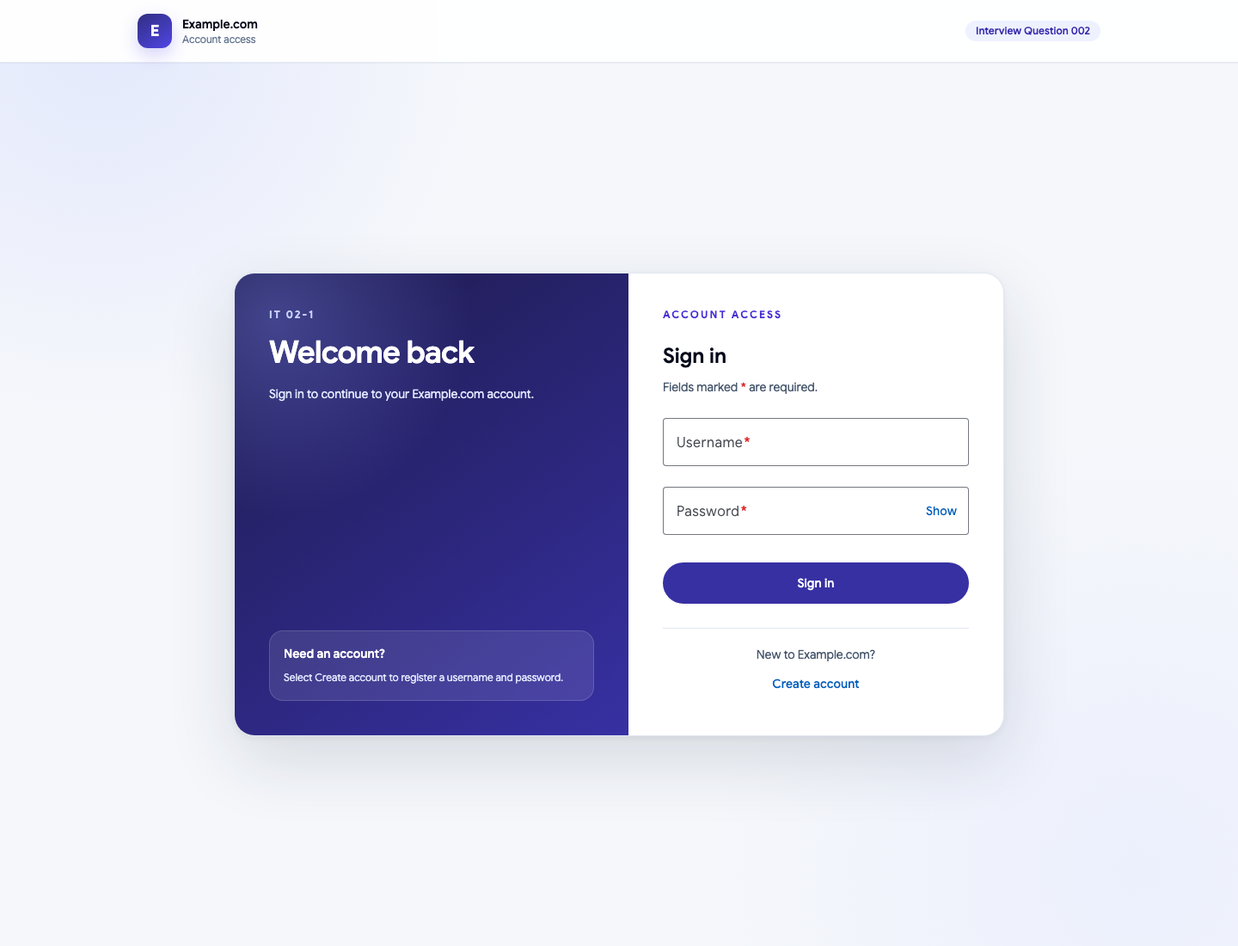
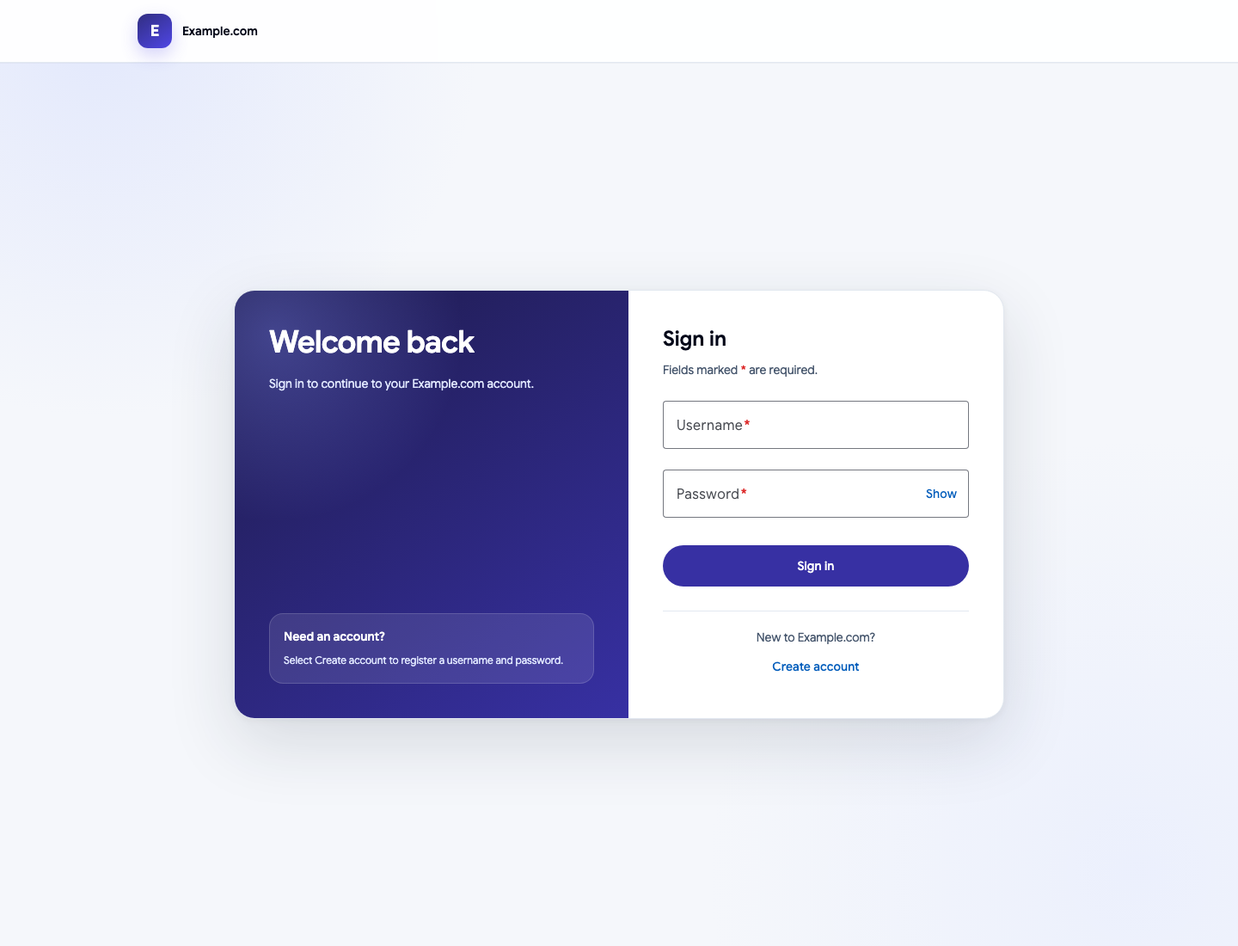
fix: remove assessment text from production UI

diff --git a/src/client/src/app/register.component.ts b/src/client/src/app/register.component.ts
@@ -37,8 +37,7 @@ function passwordsMatch(control: AbstractControl): ValidationErrors | null {
   >
     <aside class="auth-aside hidden p-10 text-white md:flex md:flex-col md:justify-between">
       <div>
-        <p class="m-0 text-xs font-bold uppercase tracking-[.18em] text-indigo-200">IT 02-2</p>
-        <h1 class="mt-4 text-4xl font-semibold tracking-tight">Create your account</h1>
+        <h1 class="m-0 text-4xl font-semibold tracking-tight">Create your account</h1>
         <p class="mt-4 text-sm leading-6 text-indigo-100">
           Create a username and password for your Example.com account.
         </p>
@@ -50,9 +49,8 @@ function passwordsMatch(control: AbstractControl): ValidationErrors | null {
       </ul>
     </aside>
     <section class="p-6 sm:p-10">
-      <p class="m-0 text-xs font-bold uppercase tracking-[.18em] text-indigo-700">New account</p>
-      <h1 class="mt-2 text-3xl font-semibold text-slate-950 md:hidden">Create your account</h1>
-      <h2 class="mt-2 text-2xl font-semibold text-slate-950 md:mt-6">Registration</h2>
+      <h1 class="m-0 text-3xl font-semibold text-slate-950 md:hidden">Create your account</h1>
+      <h2 class="mt-2 text-2xl font-semibold text-slate-950 md:mt-0">Create account</h2>
       <p class="mt-2 text-sm leading-6 text-slate-600">
         Fields marked <span class="required-marker">*</span> are required.
       </p>

diff --git a/src/client/src/app/login.component.ts b/src/client/src/app/login.component.ts
@@ -35,8 +35,7 @@ export const sharedStyles = `
   >
     <aside class="auth-aside hidden p-10 text-white md:flex md:flex-col md:justify-between">
       <div>
-        <p class="m-0 text-xs font-bold uppercase tracking-[.18em] text-indigo-200">IT 02-1</p>
-        <h1 class="mt-4 text-4xl font-semibold tracking-tight">Welcome back</h1>
+        <h1 class="m-0 text-4xl font-semibold tracking-tight">Welcome back</h1>
         <p class="mt-4 max-w-sm text-sm leading-6 text-indigo-100">
           Sign in to continue to your Example.com account.
         </p>
@@ -49,11 +48,10 @@ export const sharedStyles = `
       </div>
     </aside>
     <section class="p-6 sm:p-10">
-      <p class="m-0 text-xs font-bold uppercase tracking-[.18em] text-indigo-700">Account access</p>
-      <h1 class="mt-2 text-3xl font-semibold tracking-tight text-slate-950 md:hidden">
+      <h1 class="m-0 text-3xl font-semibold tracking-tight text-slate-950 md:hidden">
         Welcome back
       </h1>
-      <h2 class="mt-2 text-2xl font-semibold text-slate-950 md:mt-6">Sign in</h2>
+      <h2 class="mt-2 text-2xl font-semibold text-slate-950 md:mt-0">Sign in</h2>
       <p class="mt-2 text-sm leading-6 text-slate-600">
         Fields marked <span class="required-marker">*</span> are required.
       </p>

diff --git a/src/client/e2e/authentication.spec.ts b/src/client/e2e/authentication.spec.ts
@@ -81,6 +81,25 @@ test('TC-AUTH2-E2E-004 ออกจากระบบและลบ token', asy
   expect(await page.evaluate(() => sessionStorage.getItem('example.q002.accessToken'))).toBeNull();
 });
 
+test('TC-AUTH2-CONTENT-001 ไม่แสดงรหัสข้อสอบหรือศัพท์ภายในบนหน้าจอจริง', async ({
+  page,
+  request,
+}) => {
+  const forbiddenText = ['IT 02-', 'Interview Question 002', 'Account access', 'JWT'];
+  const assertProductionCopy = async (): Promise<void> => {
+    const visibleText = await page.locator('body').innerText();
+    for (const value of forbiddenText) expect(visibleText).not.toContain(value);
+  };
+
+  await assertProductionCopy();
+  await page.goto('/register');
+  await assertProductionCopy();
+  await ensureRegistered(request, 'xxx');
+  await login(page, 'xxx');
+  await assertProductionCopy();
+  await expect(page.getByTestId('welcome-username')).toHaveText('Welcome User: xxx');
+});
+
 test('TC-AUTH2-VAL-001 ปฏิเสธฟอร์มเข้าสู่ระบบว่างโดยไม่เรียก API', async ({ page }) => {
   let loginRequests = 0;
   page.on('request', (request) => {

diff --git a/src/client/src/app/app.html b/src/client/src/app/app.html
@@ -7,15 +7,8 @@
       >
         E
       </div>
-      <div>
-        <p class="m-0 text-sm font-semibold text-slate-950">Example.com</p>
-        <p class="m-0 text-xs text-slate-500">Account access</p>
-      </div>
+      <p class="m-0 text-sm font-semibold text-slate-950">Example.com</p>
     </div>
-    <span
-      class="hidden rounded-full bg-indigo-50 px-3 py-1 text-xs font-semibold text-indigo-800 sm:block"
-      >Interview Question 002</span
-    >
   </div>
 </header>
 

diff --git a/src/client/src/app/welcome.component.ts b/src/client/src/app/welcome.component.ts
@@ -18,8 +18,7 @@ import { AuthService } from './auth.service';
       >
         E
       </div>
-      <p class="mb-0 mt-6 text-xs font-bold uppercase tracking-[.18em] text-indigo-200">IT 02-3</p>
-      <h1 class="mt-2 text-4xl font-semibold tracking-tight">Welcome</h1>
+      <h1 class="mb-0 mt-6 text-4xl font-semibold tracking-tight">Welcome</h1>
     </div>
     <section class="px-6 py-8 text-center sm:px-10 sm:py-10">
       @if (loading()) {

diff --git a/src/client/e2e/support/markdown-reporter.ts b/src/client/e2e/support/markdown-reporter.ts
@@ -141,6 +141,7 @@ function escapeCell(value: string): string {
   return value.replaceAll('|', '\\|').replaceAll('\n', '<br>');
 }
 function category(id: string): string {
+  if (id.includes('-CONTENT-')) return 'Content';
   if (id.includes('-VAL-')) return 'Validation';
   if (id.includes('-RESP-')) return 'Responsive';
   if (id.startsWith('SEC-')) return 'Security';

diff --git a/documentation/09-qa-and-test/01-authentication/playwright-test-result.md b/documentation/09-qa-and-test/01-authentication/playwright-test-result.md
@@ -2,7 +2,7 @@
 doc_id: QAT-AUTH2-04
 module: AUTH2
 type: playwright-test-result
-generated_at: 2026-08-18T13:34:53.352Z
+generated_at: 2026-08-18T13:42:09.326Z
 ---
 
 # QAT-AUTH2-04 — ผลทดสอบ Playwright
@@ -21,29 +21,30 @@ generated_at: 2026-08-18T13:34:53.352Z
 
 | ทั้งหมด | ผ่าน | ไม่ผ่าน | สถานะ |
 | ------: | ---: | ------: | ----- |
-|      17 |   17 |       0 | PASS  |
+|      18 |   18 |       0 | PASS  |
 
 ## ผลรายกรณี
 
-| Test Case ID      | ชื่อกรณีทดสอบ                                               | ประเภท     | ผล   | เวลา (ms) | Screenshot                                   |
-| ----------------- | ----------------------------------------------------------- | ---------- | ---- | --------: | -------------------------------------------- |
-| TC-AUTH2-E2E-001  | เปิดหน้าสมัครสมาชิกตาม IT 02-2                              | Functional | PASS |       404 | [เปิดภาพ](screenshots/tc-auth2-e2e-001.png)  |
-| TC-AUTH2-E2E-002  | สมัครสมาชิกและกลับหน้าเข้าสู่ระบบ                           | Functional | PASS |       492 | [เปิดภาพ](screenshots/tc-auth2-e2e-002.png)  |
-| TC-AUTH2-E2E-003  | เข้าสู่ระบบและแสดงชื่อหลังตรวจ JWT                          | Functional | PASS |       409 | [เปิดภาพ](screenshots/tc-auth2-e2e-003.png)  |
-| TC-AUTH2-E2E-004  | ออกจากระบบและลบ token                                       | Functional | PASS |       365 | [เปิดภาพ](screenshots/tc-auth2-e2e-004.png)  |
-| TC-AUTH2-VAL-001  | ปฏิเสธฟอร์มเข้าสู่ระบบว่างโดยไม่เรียก API                   | Validation | PASS |       237 | [เปิดภาพ](screenshots/tc-auth2-val-001.png)  |
-| TC-AUTH2-VAL-002  | ปฏิเสธรหัสผ่านยืนยันไม่ตรงกัน                               | Validation | PASS |       284 | [เปิดภาพ](screenshots/tc-auth2-val-002.png)  |
-| TC-AUTH2-VAL-003  | ปฏิเสธ Username ซ้ำแบบไม่แยกตัวพิมพ์                        | Validation | PASS |       356 | [เปิดภาพ](screenshots/tc-auth2-val-003.png)  |
-| TC-AUTH2-VAL-004  | ปฏิเสธรหัสผ่านที่ไม่ผ่านกฎบนหน้าสมัคร                       | Validation | PASS |       287 | [เปิดภาพ](screenshots/tc-auth2-val-004.png)  |
-| TC-AUTH2-VAL-005  | API สมัครสมาชิกตอบ Problem Details เมื่อ payload ไม่ถูกต้อง | Validation | PASS |       198 | [เปิดภาพ](screenshots/tc-auth2-val-005.png)  |
-| SEC-AUTH2-001     | ปิดบังฟิลด์รหัสผ่านทุกช่อง                                  | Security   | PASS |       240 | [เปิดภาพ](screenshots/sec-auth2-001.png)     |
-| SEC-AUTH2-002     | ปฏิเสธ API me เมื่อไม่มี JWT                                | Security   | PASS |       191 | [เปิดภาพ](screenshots/sec-auth2-002.png)     |
-| SEC-AUTH2-006     | ปฏิเสธ JWT ไม่ถูกต้องและแจ้งให้เข้าสู่ระบบใหม่              | Security   | PASS |       235 | [เปิดภาพ](screenshots/sec-auth2-006.png)     |
-| SEC-AUTH2-003     | ใช้ข้อความกลางเมื่อข้อมูลรับรองผิด                          | Security   | PASS |       325 | [เปิดภาพ](screenshots/sec-auth2-003.png)     |
-| SEC-AUTH2-004     | ส่ง security headers ผ่าน Nginx                             | Security   | PASS |       207 | [เปิดภาพ](screenshots/sec-auth2-004.png)     |
-| TC-AUTH2-RESP-001 | ทุกหน้ารองรับ viewport มือถือ                               | Responsive | PASS |       355 | [เปิดภาพ](screenshots/tc-auth2-resp-001.png) |
-| TC-AUTH2-RESP-002 | การ์ด Login อยู่กึ่งกลางพื้นที่ใต้ส่วนหัว                   | Responsive | PASS |       196 | [เปิดภาพ](screenshots/tc-auth2-resp-002.png) |
-| SEC-AUTH2-005     | จำกัดอัตราคำขอเข้าสู่ระบบ                                   | Security   | PASS |       402 | [เปิดภาพ](screenshots/sec-auth2-005.png)     |
+| Test Case ID         | ชื่อกรณีทดสอบ                                               | ประเภท     | ผล   | เวลา (ms) | Screenshot                                      |
+| -------------------- | ----------------------------------------------------------- | ---------- | ---- | --------: | ----------------------------------------------- |
+| TC-AUTH2-E2E-001     | เปิดหน้าสมัครสมาชิกตาม IT 02-2                              | Functional | PASS |       298 | [เปิดภาพ](screenshots/tc-auth2-e2e-001.png)     |
+| TC-AUTH2-E2E-002     | สมัครสมาชิกและกลับหน้าเข้าสู่ระบบ                           | Functional | PASS |       365 | [เปิดภาพ](screenshots/tc-auth2-e2e-002.png)     |
+| TC-AUTH2-E2E-003     | เข้าสู่ระบบและแสดงชื่อหลังตรวจ JWT                          | Functional | PASS |       375 | [เปิดภาพ](screenshots/tc-auth2-e2e-003.png)     |
+| TC-AUTH2-E2E-004     | ออกจากระบบและลบ token                                       | Functional | PASS |       330 | [เปิดภาพ](screenshots/tc-auth2-e2e-004.png)     |
+| TC-AUTH2-CONTENT-001 | ไม่แสดงรหัสข้อสอบหรือศัพท์ภายในบนหน้าจอจริง                 | Content    | PASS |       375 | [เปิดภาพ](screenshots/tc-auth2-content-001.png) |
+| TC-AUTH2-VAL-001     | ปฏิเสธฟอร์มเข้าสู่ระบบว่างโดยไม่เรียก API                   | Validation | PASS |       255 | [เปิดภาพ](screenshots/tc-auth2-val-001.png)     |
+| TC-AUTH2-VAL-002     | ปฏิเสธรหัสผ่านยืนยันไม่ตรงกัน                               | Validation | PASS |       300 | [เปิดภาพ](screenshots/tc-auth2-val-002.png)     |
+| TC-AUTH2-VAL-003     | ปฏิเสธ Username ซ้ำแบบไม่แยกตัวพิมพ์                        | Validation | PASS |       360 | [เปิดภาพ](screenshots/tc-auth2-val-003.png)     |
+| TC-AUTH2-VAL-004     | ปฏิเสธรหัสผ่านที่ไม่ผ่านกฎบนหน้าสมัคร                       | Validation | PASS |       287 | [เปิดภาพ](screenshots/tc-auth2-val-004.png)     |
+| TC-AUTH2-VAL-005     | API สมัครสมาชิกตอบ Problem Details เมื่อ payload ไม่ถูกต้อง | Validation | PASS |       198 | [เปิดภาพ](screenshots/tc-auth2-val-005.png)     |
+| SEC-AUTH2-001        | ปิดบังฟิลด์รหัสผ่านทุกช่อง                                  | Security   | PASS |       240 | [เปิดภาพ](screenshots/sec-auth2-001.png)        |
+| SEC-AUTH2-002        | ปฏิเสธ API me เมื่อไม่มี JWT                                | Security   | PASS |       190 | [เปิดภาพ](screenshots/sec-auth2-002.png)        |
+| SEC-AUTH2-006        | ปฏิเสธ JWT ไม่ถูกต้องและแจ้งให้เข้าสู่ระบบใหม่              | Security   | PASS |       232 | [เปิดภาพ](screenshots/sec-auth2-006.png)        |
+| SEC-AUTH2-003        | ใช้ข้อความกลางเมื่อข้อมูลรับรองผิด                          | Security   | PASS |       302 | [เปิดภาพ](screenshots/sec-auth2-003.png)        |
+| SEC-AUTH2-004        | ส่ง security headers ผ่าน Nginx                             | Security   | PASS |       213 | [เปิดภาพ](screenshots/sec-auth2-004.png)        |
+| TC-AUTH2-RESP-001    | ทุกหน้ารองรับ viewport มือถือ                               | Responsive | PASS |       347 | [เปิดภาพ](screenshots/tc-auth2-resp-001.png)    |
+| TC-AUTH2-RESP-002    | การ์ด Login อยู่กึ่งกลางพื้นที่ใต้ส่วนหัว                   | Responsive | PASS |       195 | [เปิดภาพ](screenshots/tc-auth2-resp-002.png)    |
+| SEC-AUTH2-005        | จำกัดอัตราคำขอเข้าสู่ระบบ                                   | Security   | PASS |       347 | [เปิดภาพ](screenshots/sec-auth2-005.png)        |
 
 ## ภาพหลักฐาน
 
@@ -62,6 +63,10 @@ generated_at: 2026-08-18T13:34:53.352Z
 ### TC-AUTH2-E2E-004 — ออกจากระบบและลบ token
 
 ![TC-AUTH2-E2E-004 — ออกจากระบบและลบ token](screenshots/tc-auth2-e2e-004.png)
+
+### TC-AUTH2-CONTENT-001 — ไม่แสดงรหัสข้อสอบหรือศัพท์ภายในบนหน้าจอจริง
+
+![TC-AUTH2-CONTENT-001 — ไม่แสดงรหัสข้อสอบหรือศัพท์ภายในบนหน้าจอจริง](screenshots/tc-auth2-content-001.png)
 
 ### TC-AUTH2-VAL-001 — ปฏิเสธฟอร์มเข้าสู่ระบบว่างโดยไม่เรียก API
 

diff --git a/documentation/09-qa-and-test/01-authentication/verification-report-2026-08-18.md b/documentation/09-qa-and-test/01-authentication/verification-report-2026-08-18.md
@@ -2,28 +2,29 @@
 doc_id: QAT-AUTH2-08
 module: AUTH2
 type: verification-report
-verified_at: 2026-08-18T13:34:53Z
+verified_at: 2026-08-18T13:42:09Z
 ---
 
 # รายงานผลตรวจวันที่ 18 สิงหาคม 2026
 
-| รายการ                   | ผล                                                                                        |
-| ------------------------ | ----------------------------------------------------------------------------------------- |
-| xUnit                    | ผ่าน 15/15                                                                                |
-| Angular Vitest           | ผ่าน 4/4                                                                                  |
-| Playwright Chromium      | ผ่าน 17/17; รายงานสร้าง 20:34:53 น. และมีภาพ 17 ไฟล์                                      |
-| Angular production build | ผ่าน; initial bundle 483.84 kB                                                            |
-| NuGet vulnerability scan | ไม่พบแพ็กเกจที่มีช่องโหว่จากแหล่งปัจจุบัน                                                 |
-| npm audit                | ไม่พบช่องโหว่                                                                             |
-| OrbStack                 | client, API และ PostgreSQL ทำงานครบ; PostgreSQL healthy                                   |
-| API health               | `GET http://127.0.0.1:5002/health` ตอบ `healthy`                                          |
-| Authentication flow      | Register `201`, Login ได้ signed JWT และ `/me` ตอบชื่อผู้ใช้                              |
-| PostgreSQL               | มี `auth_q002.users` และ migration history ใน schema เดียวกัน                             |
-| Password storage         | ตรวจ 30 บัญชีทดสอบ ไม่พบ plaintext หรือค่าที่ไม่ใช่รูปแบบ PasswordHasher                  |
-| JWT                      | token ผิดได้ `401`, ถูกลบจาก sessionStorage, กลับ Login และแสดงข้อความให้เข้าใหม่ |
-| OWASP                    | password hash, generic error, authorization, rate limit และ security headers ผ่าน         |
-| Runtime independence     | client, API และ PostgreSQL เริ่มต้นได้จาก compose ของ repository นี้โดยไม่พึ่ง API ภายนอก |
-| Visual QA                | การ์ด Login กึ่งกลางพื้นที่ใต้ส่วนหัวคลาดเคลื่อนไม่เกิน 1 CSS pixel; ข้อความ session ไม่มีศัพท์เทคนิค |
+| รายการ                   | ผล                                                                                                      |
+| ------------------------ | ------------------------------------------------------------------------------------------------------- |
+| xUnit                    | ผ่าน 15/15                                                                                              |
+| Angular Vitest           | ผ่าน 4/4                                                                                                |
+| Playwright Chromium      | ผ่าน 18/18; รายงานสร้าง 20:42:09 น. และมีภาพ 18 ไฟล์                                                    |
+| Angular production build | ผ่าน; initial bundle 482.48 kB                                                                          |
+| NuGet vulnerability scan | ไม่พบแพ็กเกจที่มีช่องโหว่จากแหล่งปัจจุบัน                                                               |
+| npm audit                | ไม่พบช่องโหว่                                                                                           |
+| OrbStack                 | client, API และ PostgreSQL ทำงานครบ; PostgreSQL healthy                                                 |
+| API health               | `GET http://127.0.0.1:5002/health` ตอบ `healthy`                                                        |
+| Authentication flow      | Register `201`, Login ได้ signed JWT และ `/me` ตอบชื่อผู้ใช้                                            |
+| PostgreSQL               | มี `auth_q002.users` และ migration history ใน schema เดียวกัน                                           |
+| Password storage         | ตรวจ 30 บัญชีทดสอบ ไม่พบ plaintext หรือค่าที่ไม่ใช่รูปแบบ PasswordHasher                                |
+| JWT                      | token ผิดได้ `401`, ถูกลบจาก sessionStorage, กลับ Login และแสดงข้อความให้เข้าใหม่                       |
+| OWASP                    | password hash, generic error, authorization, rate limit และ security headers ผ่าน                       |
+| Runtime independence     | client, API และ PostgreSQL เริ่มต้นได้จาก compose ของ repository นี้โดยไม่พึ่ง API ภายนอก               |
+| Production copy          | Login, Register และ Welcome ไม่แสดงรหัสข้อสอบ รหัสหน้าจอ `Account access` หรือ JWT บน UI                |
+| Visual QA                | การ์ด Login กึ่งกลางพื้นที่ใต้ส่วนหัวคลาดเคลื่อนไม่เกิน 1 CSS pixel; ลำดับสายตาหลังตัดข้อความยังสมบูรณ์ |
 
 ## ตำแหน่งหลักฐาน
 

diff --git a/design-qa.md b/design-qa.md
@@ -1,14 +1,16 @@
-# Design QA — Login centering and invalid-session feedback
+# Design QA — Login centering, production copy and session feedback
 
 ## Evidence
 
 - Source visual truth: `documentation/09-qa-and-test/01-authentication/screenshots/design-reference-login-offset.png`
 - Implementation: `documentation/09-qa-and-test/01-authentication/screenshots/tc-auth2-resp-002.png`
-- Combined comparison: `documentation/09-qa-and-test/01-authentication/screenshots/design-qa-login-centering-comparison.png`
+- Combined comparison: `documentation/09-qa-and-test/01-authentication/screenshots/design-qa-production-copy-comparison.png`
+- Register production copy: `documentation/09-qa-and-test/01-authentication/screenshots/tc-auth2-e2e-001.png`
+- Welcome production copy: `documentation/09-qa-and-test/01-authentication/screenshots/tc-auth2-content-001.png`
 - Invalid-session state: `documentation/09-qa-and-test/01-authentication/screenshots/sec-auth2-006.png`
 - Viewport and CSS size: 1440×1100 px at device scale factor 1
 - Source pixels: 1440×1100; implementation pixels: 1440×1100; no density normalization required
-- Compared state: desktop `/login`; invalid-session feedback inspected separately because the source visual contains the default Login state
+- Compared state: desktop `/login`; Register, Welcome and invalid-session feedback inspected separately
 
 ## Findings
 
@@ -18,9 +20,9 @@ No actionable P0, P1, or P2 findings remain.
 - Spacing and layout rhythm: the source card was about 98 px below the center of the content area. After hiding the inactive `router-outlet` grid item, the card measures top 317 px, height 539 px, center 586.5 px; the area below the 73 px header also centers at 586.5 px. Delta is 0 CSS px.
 - Colors and visual tokens: indigo surfaces, pale background, borders, shadows, and semantic red error treatment remain consistent.
 - Image quality and asset fidelity: no photographic or generated image assets occur in this screen; the existing brand mark and all existing visual treatments are preserved.
-- Copy and content: the default Login copy is unchanged. Invalid sessions now show `Your session has expired. Please sign in again.` without exposing JWT or other implementation terminology.
+- Copy and content: production UI no longer exposes `IT 02-x`, `Interview Question 002`, `Account access` or JWT. Login retains the task-oriented sign-in copy, Register retains password guidance, Welcome retains the required `Welcome User: {username}` result, and invalid sessions show `Your session has expired. Please sign in again.`
 
-Focused comparison was required only for the invalid-session state. Its screenshot confirms the error message is visible above the form, remains readable, and does not disturb the two-column card layout.
+Focused review covered Register, Welcome and the invalid-session state because those states are not present in the Login source. Their screenshots confirm that internal labels are absent, user guidance remains complete, and the hierarchy stays balanced after the copy removal.
 
 ## Comparison History
 
@@ -28,6 +30,9 @@ Focused comparison was required only for the invalid-session state. Its screensh
 2. Fix — applied Tailwind `hidden` to `router-outlet` while retaining `grid place-items-center` on the area below the header; no fixed top offset was introduced.
 3. Post-fix evidence — `TC-AUTH2-RESP-002` passed with a measured center delta of 0 CSS px; the combined comparison shows the intentional upward correction with all other design surfaces preserved.
 4. Session feedback — `SEC-AUTH2-006` passed, including API `401`, token removal, Login redirect, neutral user-facing error text, and absence of JWT wording. Browser console errors: 0.
+5. P2 — screen identifiers and assessment labels were visible in the product UI, making the implementation look like a test harness rather than a production screen.
+6. Fix — removed `IT 02-x`, `Interview Question 002`, `Account access` and redundant registration labels from Login, Register, Welcome and the global header; retained only user-facing product copy.
+7. Post-fix evidence — `TC-AUTH2-CONTENT-001` passed across all three routes. The combined Login comparison and focused Register/Welcome captures show no hierarchy, alignment or spacing regression.
 
 ## Implementation Checklist
 
@@ -35,6 +40,8 @@ Focused comparison was required only for the invalid-session state. Its screensh
 - [x] Avoid fixed top margin or padding as the centering mechanism.
 - [x] Show an actionable, non-technical message after an invalid session.
 - [x] Verify default, invalid-session, responsive, and security flows through Playwright.
+- [x] Keep assessment identifiers and implementation terminology in documentation and tests only.
+- [x] Verify production copy on Login, Register and Welcome through Playwright.
 
 ## Follow-up Polish
 

diff --git a/documentation/09-qa-and-test/01-authentication/traceability-auth2.md b/documentation/09-qa-and-test/01-authentication/traceability-auth2.md
@@ -6,13 +6,14 @@ type: traceability
 
 # Traceability
 
-| ข้อกำหนด                         | API/UI                                 | การทดสอบ                                   |
-| -------------------------------- | -------------------------------------- | ------------------------------------------ |
-| IT 02-1 Login                    | `/login`, `POST /api/auth/login`       | `TC-AUTH2-E2E-003`, `TC-AUTH2-VAL-001`     |
+| ข้อกำหนด                         | API/UI                                 | การทดสอบ                                         |
+| -------------------------------- | -------------------------------------- | ------------------------------------------------ |
+| IT 02-1 Login                    | `/login`, `POST /api/auth/login`       | `TC-AUTH2-E2E-003`, `TC-AUTH2-VAL-001`           |
 | IT 02-2 Register                 | `/register`, `POST /api/auth/register` | `TC-AUTH2-E2E-001/002`, `TC-AUTH2-VAL-002`–`005` |
-| Password เป็น `*`                | Material password inputs               | `SEC-AUTH2-001`                            |
-| Password เข้ารหัส                | PasswordHasher + `password_hash`       | xUnit hash case และ verification report    |
-| IT 02-3 แสดง `Welcome User: xxx` | `/welcome`, `GET /api/auth/me`         | `TC-AUTH2-E2E-003/004`                     |
-| ตรวจ JWT                         | JwtBearer middleware                   | `TC-AUTH2-E2E-003`, `SEC-AUTH2-002/006`    |
-| รองรับมือถือ                     | Responsive Tailwind/Material layout    | `TC-AUTH2-RESP-001`                        |
-| การ์ด Login กึ่งกลางแนวตั้ง       | Tailwind grid ใต้ส่วนหัว           | `TC-AUTH2-RESP-002`                        |
+| Password เป็น `*`                | Material password inputs               | `SEC-AUTH2-001`                                  |
+| Password เข้ารหัส                | PasswordHasher + `password_hash`       | xUnit hash case และ verification report          |
+| IT 02-3 แสดง `Welcome User: xxx` | `/welcome`, `GET /api/auth/me`         | `TC-AUTH2-E2E-003/004`                           |
+| ตรวจ JWT                         | JwtBearer middleware                   | `TC-AUTH2-E2E-003`, `SEC-AUTH2-002/006`          |
+| ไม่แสดงรหัสภายในบน UI            | Login, Register และ Welcome            | `TC-AUTH2-CONTENT-001`                           |
+| รองรับมือถือ                     | Responsive Tailwind/Material layout    | `TC-AUTH2-RESP-001`                              |
+| การ์ด Login กึ่งกลางแนวตั้ง      | Tailwind grid ใต้ส่วนหัว               | `TC-AUTH2-RESP-002`                              |

diff --git a/documentation/05-ui-desc/01-authentication/uis-auth2-01-auth-screens.md b/documentation/05-ui-desc/01-authentication/uis-auth2-01-auth-screens.md
@@ -6,12 +6,12 @@ type: ui-specification
 
 # ข้อกำหนด UI
 
-- Layout เป็นการ์ดเข้าสู่ระบบกึ่งกลางพื้นที่ใต้ส่วนหัว มีตรา Example.com และชื่อ Question 002
+- Layout เป็นการ์ดเข้าสู่ระบบกึ่งกลางพื้นที่ใต้ส่วนหัว มีตราและชื่อ Example.com
 - จัดกึ่งกลางด้วย Tailwind CSS `grid place-items-center` บนพื้นที่ `min-h-[calc(100vh-73px)]`; ซ่อน `router-outlet` ด้วย `hidden` เพื่อไม่ให้ถูกนับเป็นแถวว่าง และห้ามกำหนดระยะจากด้านบนแบบตายตัว
 - IT 02-1 มี Username, Password, ปุ่ม Sign in และลิงก์ Create account
 - IT 02-2 มี Username, Password, Confirm password, ปุ่ม Create account และกลับ Sign in
 - IT 02-3 มีหัวข้อ Welcome, ข้อความ `Welcome User: {username}` จาก API และปุ่ม Sign out
-- UI ไม่แสดงศัพท์ implementation เช่น JWT, hash, signature, issuer, audience หรือ lifetime แก่ผู้ใช้
+- UI production ไม่แสดงรหัสหน้าจอ `IT 02-x`, ชื่อข้อสอบ `Interview Question 002`, ป้าย `Account access` หรือศัพท์ implementation เช่น JWT, hash, signature, issuer, audience และ lifetime แก่ผู้ใช้ รหัสเหล่านี้ใช้เฉพาะในเอกสารและชุดทดสอบ
 - เมื่อ session ใช้งานไม่ได้ ให้ลบ token กลับหน้า Login และแสดง `Your session has expired. Please sign in again.` โดยไม่ระบุศัพท์ทางเทคนิค
 - ฟิลด์บังคับใช้ดอกจันและคำชี้แจงเดียวกัน
 - Password ใช้ Material input และปุ่มแสดง/ซ่อนที่ใช้ด้วย keyboard ได้

diff --git a/documentation/01-requirements/01-authentication/acceptance-criteria/ac-auth2-01-auth-flow.md b/documentation/01-requirements/01-authentication/acceptance-criteria/ac-auth2-01-auth-flow.md
@@ -11,6 +11,7 @@ type: acceptance-criteria
 - เข้าสู่ระบบถูกต้องได้ JWT; ข้อมูลผิดได้ `401` ด้วยข้อความกลาง
 - `GET /api/auth/me` ไม่มี token หรือ token ผิดได้ `401`; token ถูกต้องได้ชื่อผู้ใช้
 - หาก token ที่เก็บไว้ใช้งานไม่ได้ หน้า Welcome ต้องลบ token กลับ Login และแจ้งให้เข้าสู่ระบบใหม่โดยไม่แสดงศัพท์ทางเทคนิค
+- ทุกหน้าต้องไม่แสดงรหัสข้อสอบ รหัสหน้าจอ หรือข้อความภายใน เช่น `Interview Question 002`, `IT 02-x`, `Account access` และ `JWT`; รหัสเหล่านี้ใช้ได้เฉพาะในเอกสารและชุดทดสอบ
 - ที่ viewport desktop การ์ด Login ต้องอยู่กึ่งกลางแนวตั้งของพื้นที่ใต้ส่วนหัว ไม่ใช้ระยะด้านบนแบบตายตัว
 - หน้า Welcome แสดง `Welcome User: {username}` โดยใช้ชื่อจาก `/api/auth/me` ไม่ใช่ข้อมูลที่ฝั่งหน้าเว็บเชื่อเอง
 - ระบบต้องเริ่มต้นและทำงานได้โดยไม่พึ่ง API ของระบบธุรกิจภายนอก
